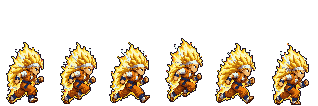
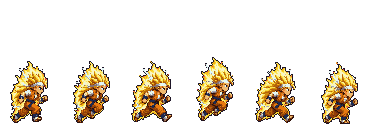
Gogu: every form's body the same size as his base sprite (per-sheet runSize/attackSize)
Claude-Session: https://claude.ai/code/session_018e4pu3rfaHAAnQKEVVgxK4

diff --git a/art/heroes/animate.js b/art/heroes/animate.js
@@ -186,14 +186,18 @@ function buildHero(id) {
   const want = fs.existsSync(path.join(dir, 'frames.json')) ? JSON.parse(fs.readFileSync(path.join(dir, 'frames.json'), 'utf8')) : {};
   // frames.json `attackScale`: the attack sheet's figures carry tall effects (aura pillars), so size it from the
   // run sheet instead: attack source px per sprite px = run's x attackScale (attack body height / run body height).
+  // frames.json `runSize` / `attackSize`: extra size for one sheet, when its aura or effects make the body come out
+  // smaller than in the other (a form's body should match the base hero's).
+  const runSize = want.runSize ?? 1, attackSize = want.attackSize ?? 1;
   const runOwn = want.attackScale ? figures(path.join(dir, 'run_sheet.png'), TARGET_HEIGHT * size, undefined, want.run) : null;
-  const attack = figures(path.join(dir, 'attack_sheet.png'), TARGET_HEIGHT * size, runOwn ? runOwn[0].block * want.attackScale : undefined, want.attack);
+  const attack = figures(path.join(dir, 'attack_sheet.png'), TARGET_HEIGHT * size * attackSize,
+    runOwn ? (runOwn[0].block * want.attackScale) / attackSize : undefined, want.attack);
   // Sheets cut from one image by split.js are drawn at one size, so the run keeps the attack's scale (a hero who
   // rides a balloon between fights stays the same size in it); separately generated sheets each find their own.
   const oneImage = fs.existsSync(path.join(dir, 'split.json'));
   const small = {
     attack: attack.map(shrink),
-    run: figures(path.join(dir, 'run_sheet.png'), TARGET_HEIGHT * size, oneImage ? attack[0].block : undefined, want.run).map(shrink),
+    run: figures(path.join(dir, 'run_sheet.png'), TARGET_HEIGHT * size * runSize, oneImage ? attack[0].block : undefined, want.run).map(shrink),
   };
   // One canvas for every frame: head anchor at a fixed column, ground on the bottom rows.
   let minX = 0, maxX = 0, minY = 0;

diff --git a/src/heroAnims.ts b/src/heroAnims.ts
@@ -90,9 +90,9 @@ export const HERO_ANIMS: Record<string, HeroAnim> = {
   howl: { frame: [81,62], feet: [37,61], headTop: 11, run: 5, attack: 5, hitFrame: 3 },
   juggles: { frame: [56,48], feet: [33,47], headTop: 6, run: 4, attack: 5, hitFrame: 0 },
   kairo: { frame: [42,54], feet: [18,53], headTop: 3, run: 6, attack: 5, hitFrame: 2 },
-  kairo_ascend3: { frame: [53,106], feet: [26,105], headTop: 42, run: 6, attack: 5, hitFrame: 1 },
-  kairo_surge: { frame: [51,65], feet: [21,64], headTop: 10, run: 6, attack: 5, hitFrame: 2 },
-  kairo_surge1: { frame: [48,70], feet: [17,69], headTop: 5, run: 6, attack: 5, hitFrame: 3 },
+  kairo_ascend3: { frame: [62,125], feet: [30,124], headTop: 61, run: 6, attack: 5, hitFrame: 1 },
+  kairo_surge: { frame: [65,85], feet: [24,84], headTop: 7, run: 6, attack: 5, hitFrame: 2 },
+  kairo_surge1: { frame: [61,89], feet: [21,88], headTop: 5, run: 6, attack: 5, hitFrame: 3 },
   kestra: { frame: [61,56], feet: [29,55], headTop: 8, run: 5, attack: 5, hitFrame: 2 },
   kiln: { frame: [80,57], feet: [32,56], headTop: 5, run: 5, attack: 5, hitFrame: 3 },
   kindra: { frame: [65,48], feet: [30,47], headTop: 5, run: 5, attack: 5, hitFrame: 2 },

diff --git a/src/portraitBounds.ts b/src/portraitBounds.ts
@@ -82,9 +82,9 @@ export const HERO_BOUNDS: Record<string, ArtBounds> = {
   howl: [81, 62, 8, 11, 61, 61, 34.9],
   juggles: [56, 48, 7, 6, 54, 47, 35],
   kairo: [42, 54, 5, 3, 30, 53, 18.4],
-  kairo_ascend3: [53, 106, 9, 9, 46, 100, 26],
-  kairo_surge: [51, 65, 6, 10, 36, 64, 21],
-  kairo_surge1: [48, 70, 3, 5, 32, 68, 16.9],
+  kairo_ascend3: [62, 125, 9, 10, 54, 118, 30.1],
+  kairo_surge: [65, 85, 3, 7, 46, 84, 24.1],
+  kairo_surge1: [61, 89, 3, 5, 41, 86, 21],
   kestra: [61, 56, 4, 8, 55, 55, 29.9],
   kiln: [80, 57, 6, 5, 56, 56, 30.4],
   kindra: [65, 48, 17, 5, 49, 47, 32.1],
